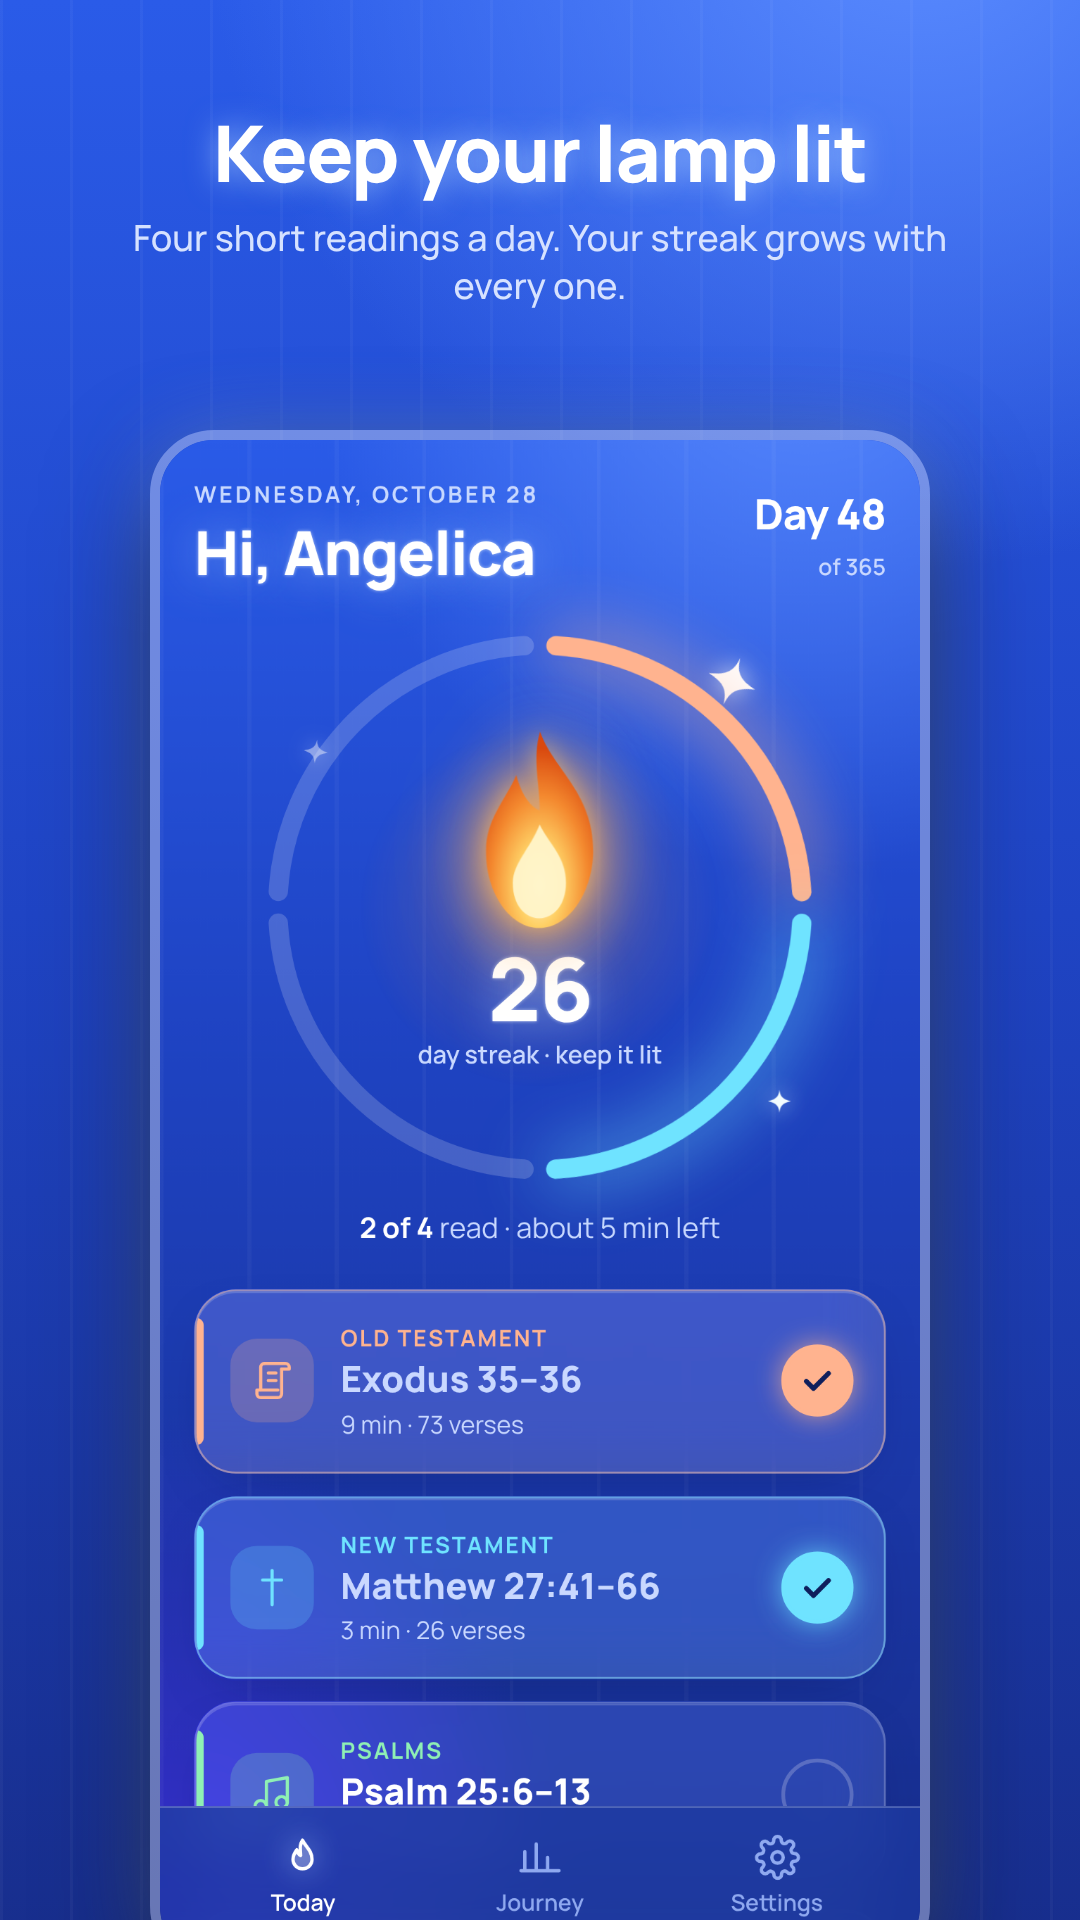
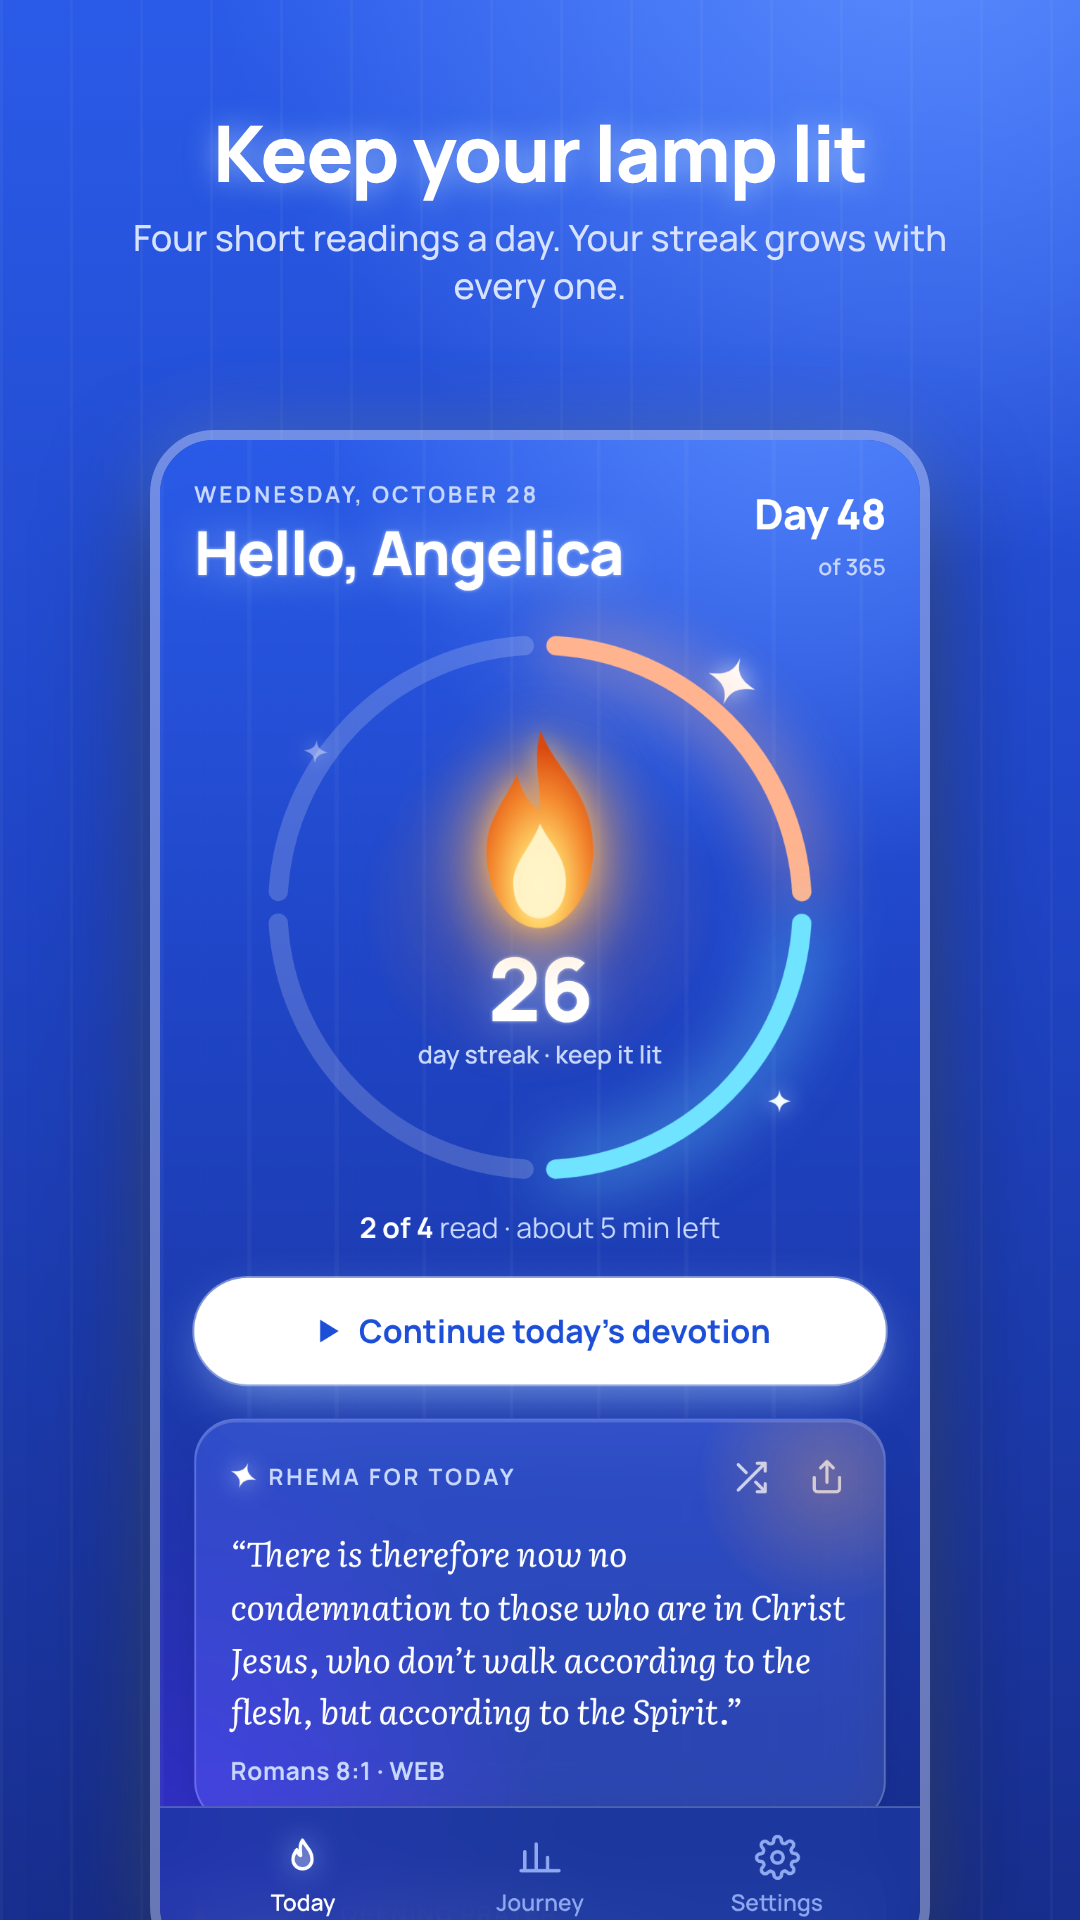
Update Play Store screenshots and listing for devotion features [skip ci]
Claude-Session: https://claude.ai/code/session_01SwBzFdNdQH49VsUYRqPdEV

Changed region(s): [[0.1528, 0.6562, 0.825, 0.9375], [0.2139, 0.25, 0.5806, 0.3125]]

diff --git a/store/LISTING.md b/store/LISTING.md
@@ -5,20 +5,31 @@
 **App name** (max 30): `Lamp: Bible in a Year`
 
 **Short description** (max 80):
-`Read the whole Bible in a year with 4 short daily readings, streaks & badges.`
+`Daily Bible devotion: guided prayer, 4 readings, takeaways & streaks. 1 year.`
 
 **Full description** (max 4000):
 
 Your word is a lamp to my feet, and a light for my path. (Psalm 119:105)
 
-Lamp helps you read the whole Bible in one year, about 15 minutes a day. Every day you get four short portions:
+Lamp is a complete daily devotion that takes you through the whole Bible in one year, about 15 minutes a day.
 
-• Old Testament: about two chapters
-• New Testament: about one chapter
-• Psalms: a few verses, so all 150 Psalms are spread across the year
+A GUIDED DAILY DEVOTION
+• Begin with prayer: a guided opening prayer asking God for wisdom and to lead you into all truth, with a moment of silence
+• Four short readings: Old Testament, New Testament, Psalms and Proverbs
+• After each reading: a key takeaway and one simple way to apply it today
+• End with prayer: a closing prayer built from the day's readings
+• Soft piano music while you read and pray (optional)
+
+THE WHOLE BIBLE IN A YEAR
+• Old Testament: about two chapters a day
+• New Testament: about one chapter a day
+• Psalms: a few verses a day, so all 150 are spread across the year
 • Proverbs: the chapter that matches today's date, so you read Proverbs 12 times a year
+• Each day's readings are balanced by length, so no day is much heavier than another
 
-Each day's readings are balanced by length, so no day is much heavier than another.
+RHEMA FOR TODAY
+• A fresh encouraging verse every day
+• Shuffle for another, or share it with a friend
 
 STAY MOTIVATED
 • A streak flame that grows the longer you keep reading
@@ -30,20 +41,19 @@ SEE YOUR PROGRESS
 • See what percentage of the Bible you've read
 • A bookshelf of all 66 books that fills in as you go
 • A heatmap of every day you've read
-• Proverbs progress beads, twelve per year
-• 20 badges to earn: finish the Torah, the Gospels, Paul's letters, all the Psalms and more
+• 20 badges: finish the Torah, the Gospels, Paul's letters, all the Psalms, Proverbs 12 times and more
 
 BEAUTIFUL AND PRIVATE
-• Clean, distraction-free reading with adjustable text size
+• Clean reading with adjustable text size and a serif or sans-serif font
 • Dark and light themes
-• Works offline
+• Works offline: upcoming readings are saved on your phone
 • No account, no ads, no tracking. Your progress stays on your phone.
 
 Scripture in the New Living Translation (NLT) and the World English Bible (WEB).
 
 **App icon**: `icon-512.png`
 **Feature graphic**: `feature-graphic-1024x500.png`
-**Phone screenshots**: `screenshot-1-today.png` … `screenshot-5-badges.png` (1080×1920)
+**Phone screenshots**: `screenshot-1-today.png` … `screenshot-5-celebrate.png` (1080×1920)
 
 ## Store settings
 - **App category**: Books & Reference (or Lifestyle)
